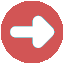
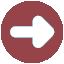
site au couleur de groupomania

diff --git a/RamosAurore_7_21032021/Frontend/screen.css b/RamosAurore_7_21032021/Frontend/screen.css
@@ -1,8 +1,8 @@
 :root{
-    --rouge:rgb(209, 81, 90);
+    --rouge:#96434a;
     --grey: #e7e2e2;
-    --bluePastel: rgb(173, 185, 208);
-    background-color: rgb(74,74,74);
+    --bluePastel: rgb(40, 53, 78);
+    background-color: rgb(135,135,135);
 }
 
 html{
@@ -81,7 +81,8 @@ h2{
 }
 
 .btn_enter {
-    background-color: var(--bluePastel);
+    background-color: var(--rouge);
+    font-weight: 700;
     height: 2rem;
     width: 3rem;
     opacity: 0.8;
@@ -92,6 +93,7 @@ h2{
 
 .btn_enter:hover{
     transform:scale(1.15);
+    font-weight: bold;
 }
 
 .question{
